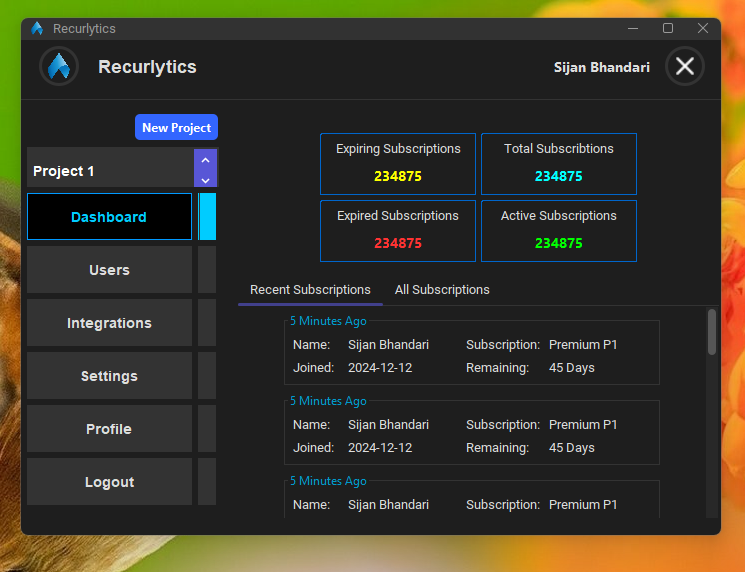
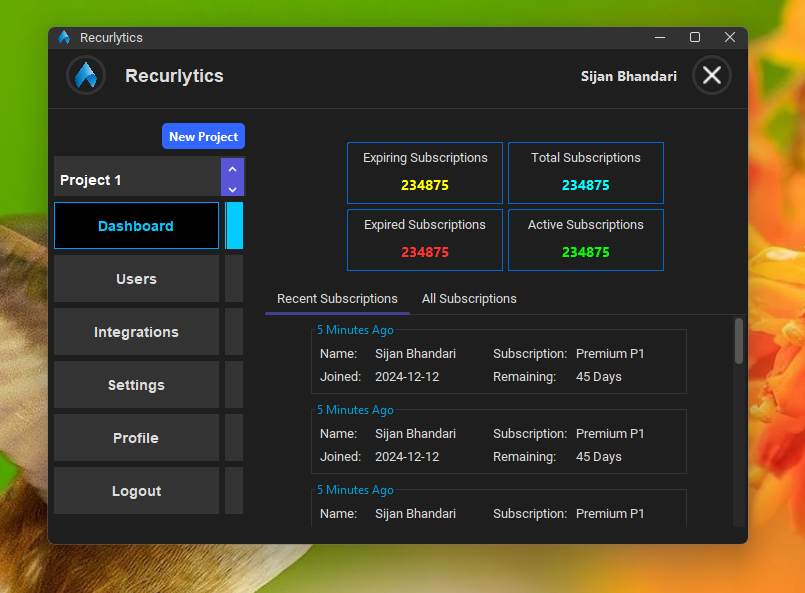
subscriptions page

diff --git a/src/main/java/com/sijanstu/recurlytics/components/dashboard/pages/DashboardPage.java b/src/main/java/com/sijanstu/recurlytics/components/dashboard/pages/DashboardPage.java
@@ -173,7 +173,7 @@ public class DashboardPage extends javax.swing.JPanel {
         jPanel7.setBorder(new javax.swing.border.LineBorder(new java.awt.Color(0, 102, 204), 1, true));
 
         jLabel13.setHorizontalAlignment(javax.swing.SwingConstants.CENTER);
-        jLabel13.setText("Total Subscribtions");
+        jLabel13.setText("Total Subscriptions");
 
         jLabel14.setFont(new java.awt.Font("Segoe UI", 1, 14)); // NOI18N
         jLabel14.setForeground(new java.awt.Color(0, 255, 255));
